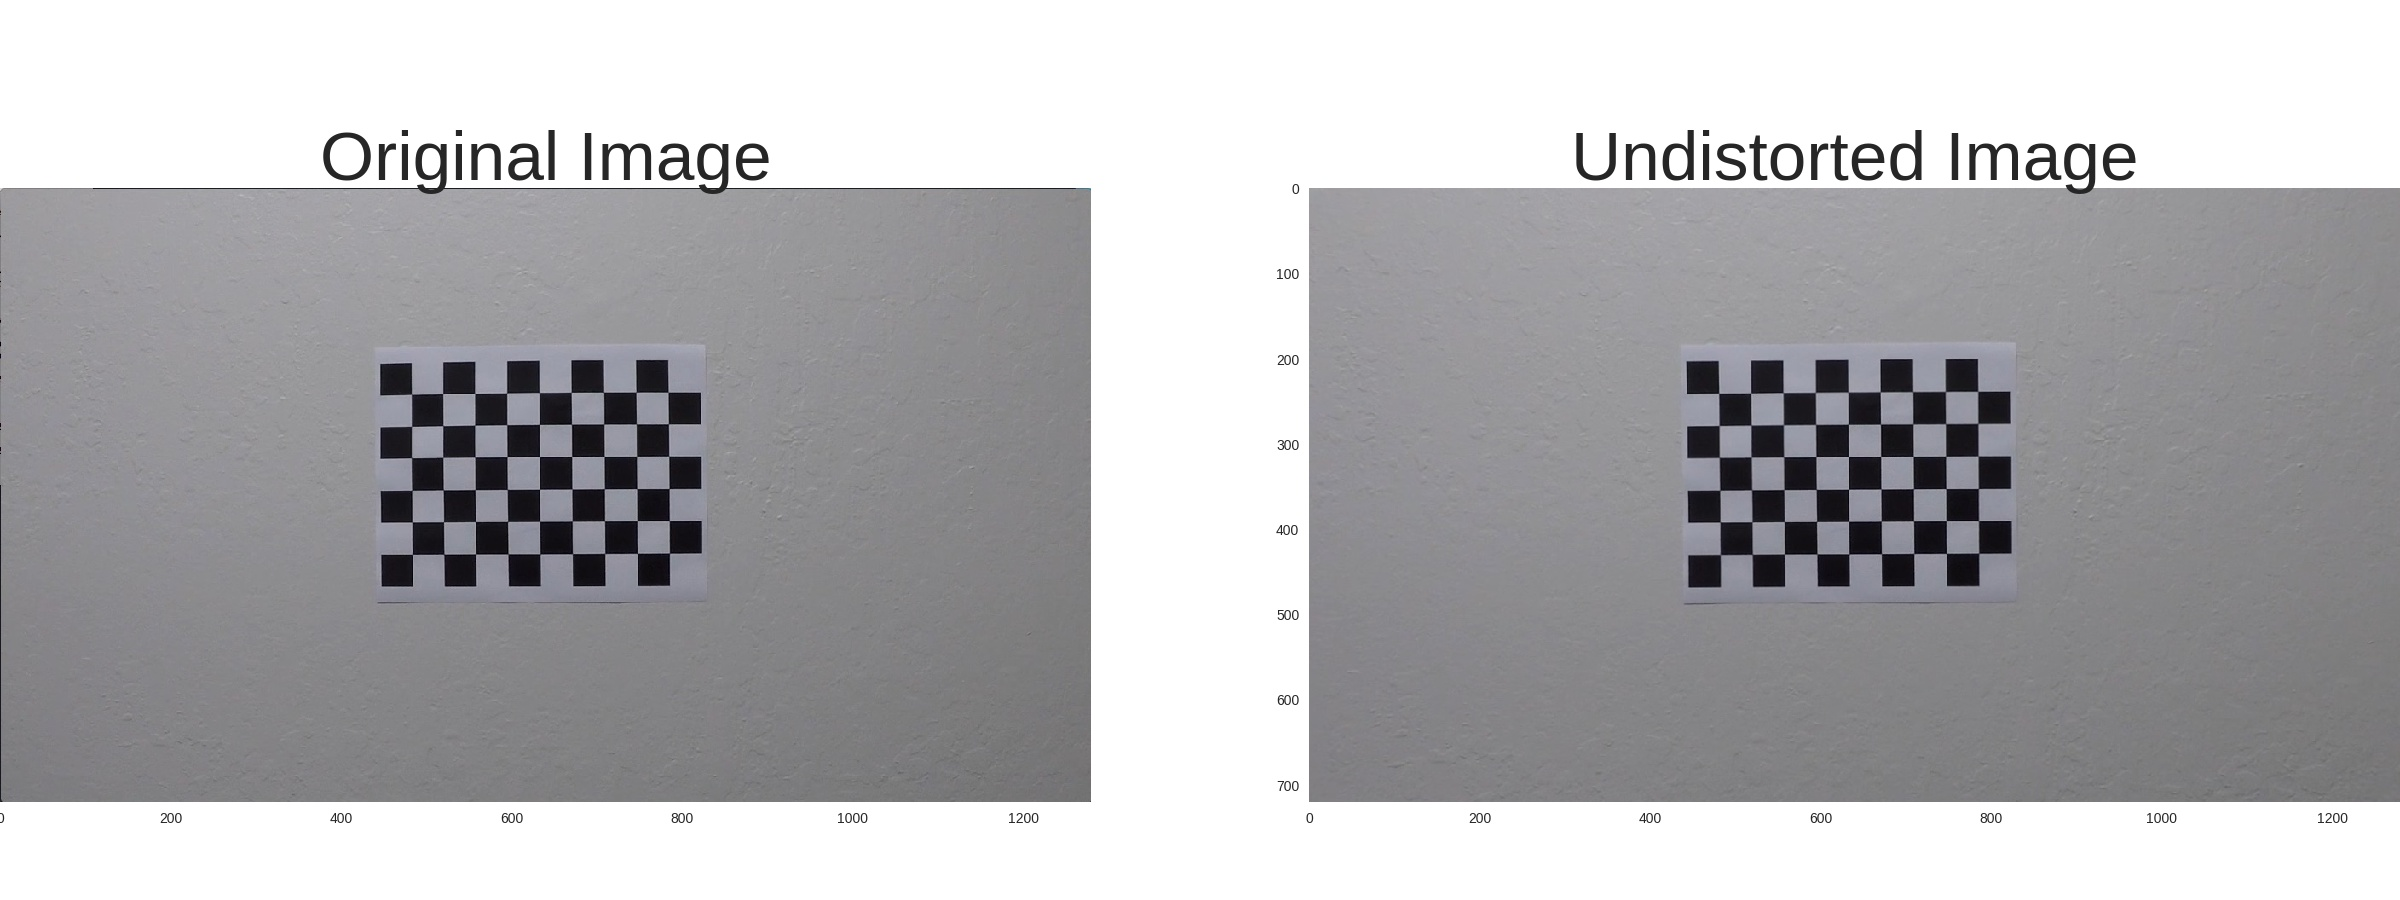
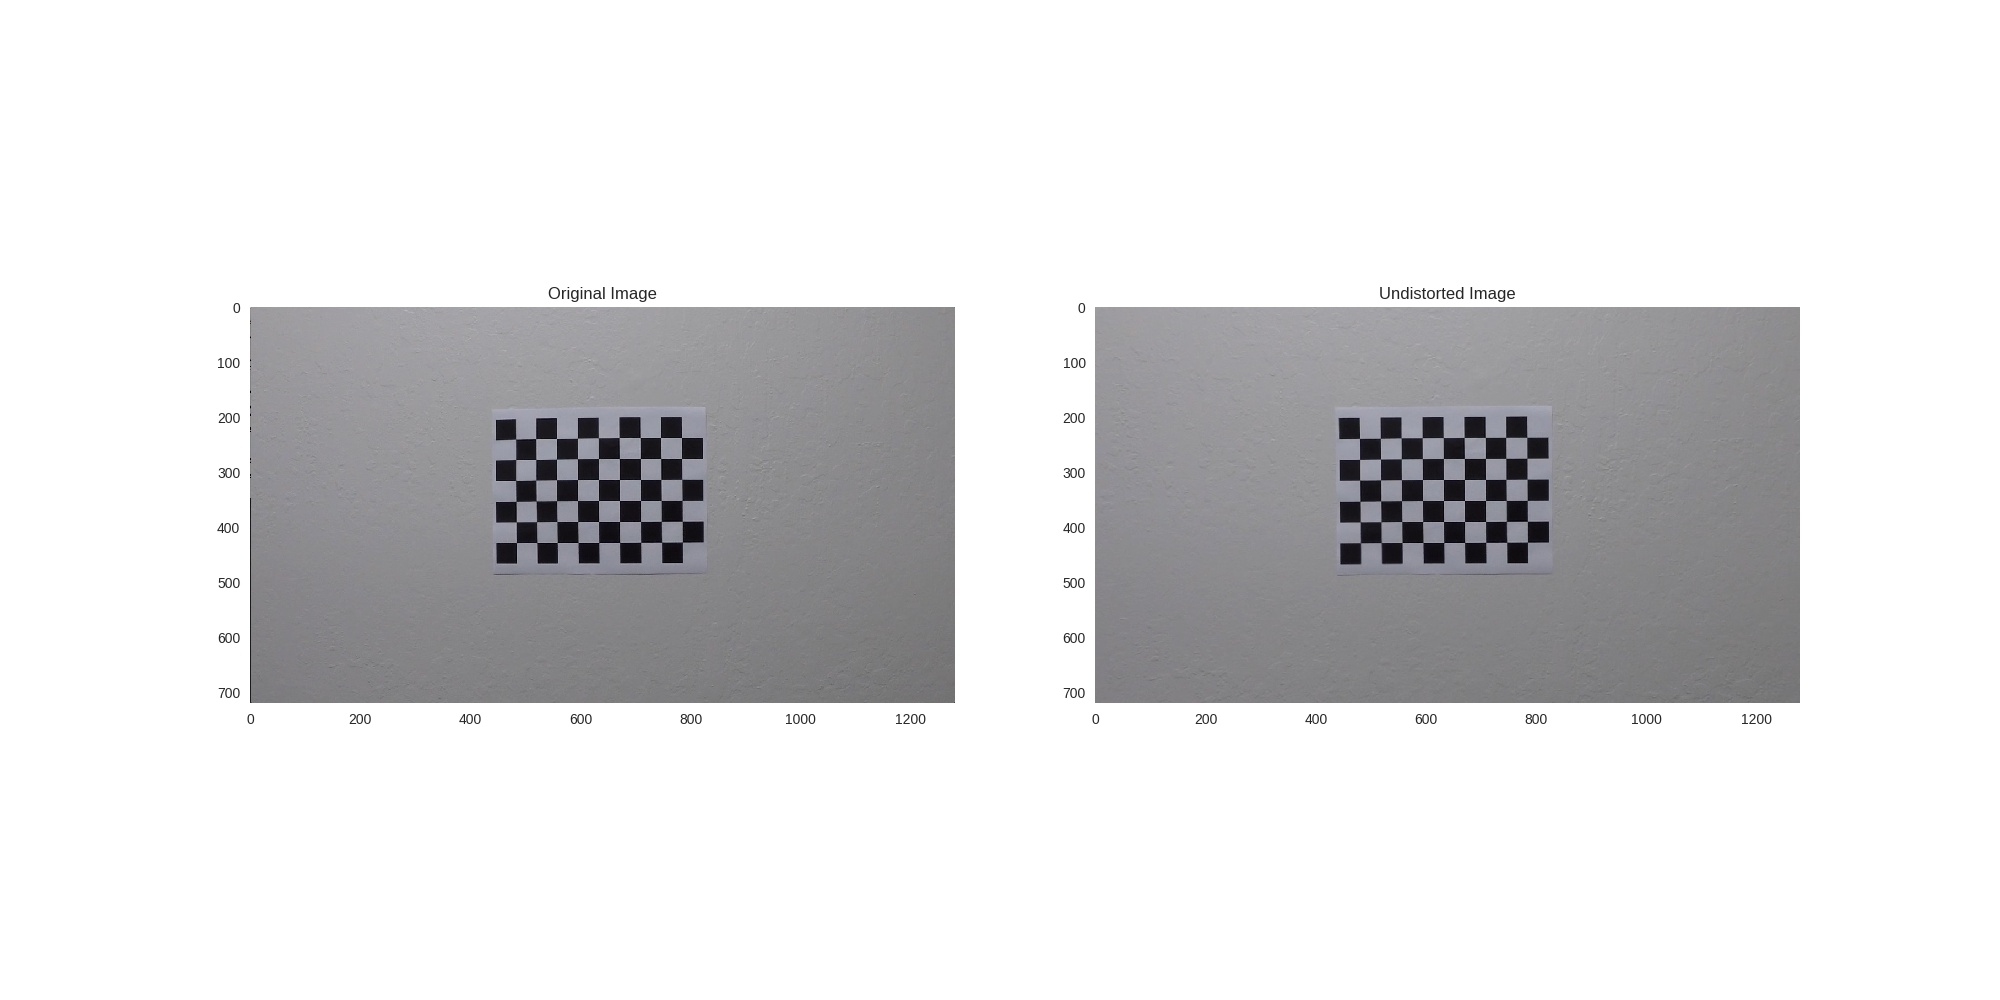
add HLS/Sobel_X thresholding to the pipeline and refactor image output

diff --git a/all.py b/all.py
@@ -62,13 +62,11 @@ if test_undistort == True:
 
         # Plot original and undistorted image
         sbs.set_style("dark")
-        f, (ax1, ax2) = plt.subplots(1, 2, figsize=(24, 9))
-        #f.tight_layout()
+        f, (ax1, ax2) = plt.subplots(1, 2, figsize=(20, 10))
         ax1.imshow(calibration_img)
-        ax1.set_title('Original Image', fontsize=50)
+        ax1.set_title('Original Image')
         ax2.imshow(undistorted)
-        ax2.set_title('Undistorted Image', fontsize=50)
-        plt.subplots_adjust(left=0., right=1, top=0.9, bottom=0.)
+        ax2.set_title('Undistorted Image')
         f.savefig("camera_undistorted/" + calibration_filename)
 
 ###################################################################################################
@@ -102,13 +100,12 @@ for test_image, test_image_filename in zip(test_images, test_images_filenames):
 
     # Plot original and undistorted image
     sbs.set_style("dark")
-    f, (ax1, ax2) = plt.subplots(1, 2, figsize=(24, 9))
+    f, (ax1, ax2) = plt.subplots(1, 2, figsize=(20, 10))
     #f.tight_layout()
     ax1.imshow(test_image)
-    ax1.set_title('Original Image', fontsize=50)
+    ax1.set_title('Original Image')
     ax2.imshow(undistorted_image)
-    ax2.set_title('Undistorted Image', fontsize=50)
-    plt.subplots_adjust(left=0., right=1, top=0.9, bottom=0.)
+    ax2.set_title('Undistorted Image')
     f.savefig("test_undistorted/" + test_image_filename)
 
 ###################################################################################################
@@ -123,11 +120,11 @@ def threshold_x_gradient (img, sobel_size = 3, threshold = [0, 255]):
     scaled_sobel_x = np.uint(255 * abs_sobel_x / np.max(abs_sobel_x))
 
     binary_output = np.zeros_like(scaled_sobel_x)
-    binary_output[(scaled_sobel_x >= threshold[0]) & (scaled_sobel <= threshold[1])] = 1
+    binary_output[(scaled_sobel_x >= threshold[0]) & (scaled_sobel_x <= threshold[1])] = 1
 
     return binary_output
 
-def threshold_hls_color_gradient (img, threshold = [0, 255]):
+def threshold_hls_s_gradient (img, threshold = [0, 255]):
     hls = cv2.cvtColor(img, cv2.COLOR_RGB2HLS)
     s_channel = hls[:, :, 2]
 
@@ -144,7 +141,23 @@ print("Thresholding...")
 for undistorted_image, test_image_filename in zip(undistorted_images, test_images_filenames):
 
     print("Thresholding " + test_image_filename)
-    ## TODO
+    
+    x_binary = threshold_x_gradient(undistorted_image, 3, [20, 100])
+    s_binary = threshold_hls_s_gradient(undistorted_image, [170, 255])
+
+    colored_binary = np.dstack((np.zeros_like(x_binary), x_binary, s_binary))
+
+    thresholded_image = np.zeros_like(x_binary)
+    thresholded_image[(x_binary == 1) | (s_binary == 1)] = 1
+    thresholded_images.append(thresholded_image)
+
+    sbs.set_style("dark")
+    f, (ax1, ax2) = plt.subplots(1, 2, figsize=(20, 10))
+    ax1.set_title('Stacked Thresholds')
+    ax1.imshow(np.uint8(colored_binary * 255.999))
+    ax2.set_title('Original Image')
+    ax2.imshow(undistorted_image)
+    f.savefig("test_thresholded/" + test_image_filename)
 
 ###################################################################################################
 ## Perspective Transform
